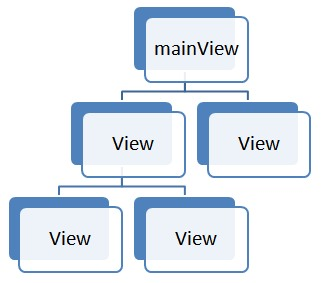
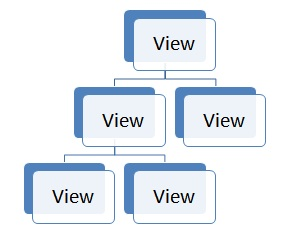
Hello World.md upgraded to the new  architecture -- no Activity

diff --git a/docs/Getting_Started/Hello_World.md b/docs/Getting_Started/Hello_World.md
@@ -13,86 +13,86 @@ A Rikulo application consists of
 
 Here is a simple "Hello World" application.
 
-    #import('package:rikulo/app.dart');
-    #import('package:rikulo/view.dart');
-
-    class HelloWorld extends Activity {
-      void onCreate_() {
-        TextView welcome = new TextView("Hello World!");
-        welcome.profile.location = "center center";
-        mainView.addChild(welcome);
-      }
-    }
+    import 'package:rikulo/view.dart';
 
     void main() {
-      new HelloWorld().run();
+      new TextView("Hello World!") //create UI
+        .addToDocument(); //make it available to the browser
     }
 
-As shown above, there are basically four steps to implement a Rikulo application.
+As shown above, there are basically three steps to implement a Rikulo application.
 
-1. Import [app](api:) and [view](api:) packages
-2. Implement your activity by extending from [Activity](api:app)
-3. Draw your user interface in [Activity.onCreate_()](api:app).
-4. Start up the activity in the `main` method
+1. Import the [view](api:) package.
+2. Draw your user interface by instantiating UI elements ([View](api:view) and subclasses).
+3. Show your user interface on the browser by invoking [View.addToDocument()](api:view).
 
-###Import [app](api:) and [view](api:)
+###Import the [view](api:) package
 
-Packages to import really depends on your requirement. [Activity](api:app) is part of the [app](api:) package, while UI objects is part of the [view](api:) package. These two are packages that you will import in the most cases.
-
-###Implement an activity
-
-An activity is an application component that provides the user interface to interact with the user. An activity might be paused or resumed due to user's interaction, such as answering a phone.
-
-Implementing an activity is straightforward: extend your class from [Activity](api:app).
-
-> The current activity can be found by use of the global variable called [activity](api:app).
+Packages to import depend on your requirement. The [view](api:) package is usually what you will import, since it has many UI elements.
 
 ###Draw your user interface
 
-After your activity is started, [Activity.onCreate_()](api:app) will be called. You can create your user interface in this method.
-
-> Naming Convention: we append an underscore to the name of a method to indicate the method is *protected*, i.e., it can only be accessed within the class and its subclasses.
-
-The user interface elements in a Rikulo application are built using [View](api:view). A view is the basic building block. It draws something on the screen that the user can interact with.
+The user interface elements in a Rikulo application are built using views. A view is the basic building block. It draws something on the screen and interact with the user.
 
 In this application, we instantiate an instance of [TextView](api:view) to show the greeting message.
 
-    TextView welcome = new TextView("Hello World!");
+    new TextView("Hello World!");
 
-We also specify the layout information in [View.profile](api:view), such that the message shall be placed in the center of the parent. The code is as follows. For more information, please refer to [the Layouts chapter](../Layouts/index.md).
+> A view is an instance of [View](api:view) and its subclasses.  
+> [TextView](api:view) is a subclass of [View](api:view) for displaying messages.
 
-    welcome.profile.location = "center center";
-
-All views available in an activity are arranged in a single tree. The root view is called `mainView`. It is instantiated automatically before calling [Activity.onCreate_()](api:app). To make a view available on the screen, you have to add it to a node of the tree by invoking [View.addChild()](api:view).
-
-    mainView.addChild(welcome);
+Views can be arranged in a hierarchy of views, as show below, to define any user interface you want. The topmost view is called the root view.
 
 ![Tree of Views](view-hierarchy.jpg?raw=true)
 
-###Start up your activity
+For example, we can define the user interface as follows.
 
-The `main` method is Dart's entry point. All you need to do is to start up your activity by instantiating it and invoking [Activity.run()](api:app).
+    new View()
+      ..layout.type = "linear" //arrange the layout of child views linearly
+      ..addChild(new TextView("Name")) //a label
+      ..addChild(new TextBox()); //an input
 
-    new HelloWorld().run();
+As shown above, a hierarchy of views is arranged by use of [View.addChild()](api:view). Furthermore, [View.layout](api.view) controls how to arrange the child views (aka., subviews). For more information, please refer to [the UI Overview](../Views/Fundamentals/UI_Overview.md).
+
+###Show your user interface on the browser
+
+Notice that the hierarchy of views you create is just a tree of normal objects. To make it available to the browser, you can invoke [View.addToDocument()](api:view) against the root view. For example,
+
+    new View()
+      ..layout.type = "linear"
+      ..addChild(new TextView("Name"))
+      ..addChild(new TextBox())
+      ..addToDcument(); //make it available to the browser
+
+On the hand, you can remove a hierarchy of views from the browser by invoking [View.removeFromDocument()](api.view).
+
+If you want to add the user interface into a particular element ([Element](dart:html)) rather than `document.body` (which is default), you can specify the element as the first argument. For example, assume you want want to put it under an element named `part`, you can do as follows.
+
+    view.addToDocument(document.query("#part"));
+
+For more information, please refer to [Embed in HTML Page](../Views/Fundamentals/Embed_in_HTML_Page.md).
 
 ###Handle Events
 
 The view will notify the application about the user's interaction with events. You can listen and handle the events with [View.on](api:view). For example, we can rewrite the "Hello World" application to change the greeting message when the user touches it as follows.
 
-    welcome.on.click.add((event) {
-      welcome.text = "Welcome to Rikulo.";
-      welcome.requestLayout();
-    }
+    new TextView("Hello World!")
+      ..on.click.add((event) {
+        (event.target as TextView).text = "Welcome to Rikulo.";
+        event.target.requestLayout();
+      })
+      ..addToDocument();
 
-> Notice that we also invoke [View.requestLayout()](api:view) to reposition the greeting message, since we change its content and need to reposition it to the center. For more information, please refer to [the Layouts chapter](../Layouts/index.md).
+> Notice that we invoke [View.requestLayout()](api:view) to reposition the greeting message, since we change its content and need to reposition it. For more information, please refer to [the Layouts chapter](../Layouts/index.md).
 
 ##The HTML page
 
-To run an application, you need a HTML page to specify the Dart file(s) to load. Here is a typical example:
+To run an application, you need a HTML page to define the user interface in HTML and specify the Dart file(s) to load. Here is a typical example:
 
     <!DOCTYPE html>
     <html>
       <head>
+        <title>Foo</title>
         <meta name="viewport" content="width=device-width, initial-scale=1.0, maximum-scale=1.0, user-scalable=no" />
         <link rel="stylesheet" type="text/css" href="packages/rikulo/resource/css/view.css" />
       </head>
@@ -107,7 +107,7 @@ First, you have to specify the CSS file to load. Depending on your requirement, 
     <link rel="stylesheet" type="text/css"
      href="packages/rikulo/resource/css/view.css" />
 
-> By default, [the Dart Package Manager](http://www.dartlang.org/docs/pub-package-manager/) installed the resources under the `packages/rikulo/resource` folder. If your HTML file is not in the root of the project, you have to change the path accordingly.
+> By default, [the Dart Package Manager](http://www.dartlang.org/docs/pub-package-manager/) installed the resources under the `packages/rikulo/resource` folder.
 
 Second, you have to specify your Dart file. In this application, it is called `HelloWorld.dart`.
 
@@ -117,6 +117,8 @@ Also notice that Rikulo assumes HTML 5, so you shall specify `<!DOCTYPE html>` a
 
     <meta name="viewport" content="width=device-width, initial-scale=1.0, maximum-scale=1.0, user-scalable=no" />
 
+> It is harmless if running on a desktop browser.
+
 Then, you visit this page to see how it works in live.
 
-> In this example, we don't specify where to show the user interface, and Rikulo will, by default, insert it under the document's `body` tag. However, depending on your requirement (such as in a desktop applications), you can run several Rikulo applications at the same time and assign them to different segments on the screen. Please refer to [Make Activity Being Part of HTML Page](../Views/Activity.md) for details.
+> In this example, we don't specify where to show the user interface, and [View.addToDocument()](api:view) will, by default, insert it under the document's `body` tag. However, depending on your requirement, you can put different hierarchy of views into different parts of the document. Please refer to [Embed in HTML Page](../Views/Fundamentals/Embed_in_HTML_Page.md) for details.

diff --git a/docs/Views/index.md b/docs/Views/index.md
@@ -5,10 +5,9 @@
     * [Event Handling](Fundamentals/Event_Handling.md)
     * [ID Space and Query](Fundamentals/ID_Space_and_Query.md)
     * [Style with CSS](Fundamentals/Style_with_CSS.md)
+    * [Embed in HTML Page](Fundamentals/Embed_in_HTML_Page.md)
     * [Show Web Content](Fundamentals/Show_Web_Content.md)
     * [Separate Data from UI with Model](Fundamentals/Separate_Data_from_UI_with_Model.md)
-* [Activity](Activity.md)
-* [Application](Application.md)
 * [Button](Button.md)
 * [ButtonGroup](ButtonGroup.md)
 * [Canvas](Canvas.md)

diff --git a/docs/Getting_Started/index.md b/docs/Getting_Started/index.md
@@ -1,5 +1,6 @@
 #Getting Started
 
+* [Introduction](Introduction.md)
 * [Hello World](Hello_World.md)
 * [Building Native Mobile Application](Building_Native_Mobile_Application.md)
 * [Architectural Diagram](Architectural_Diagram.md)
